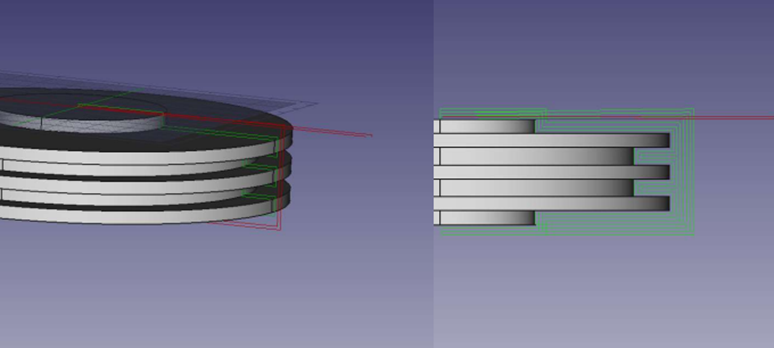
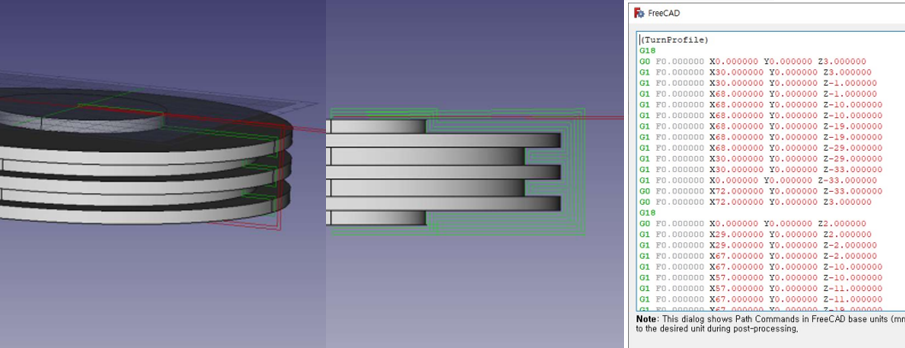
Update image

diff --git a/_posts/2024-03-07-free-cad-contribution.md b/_posts/2024-03-07-free-cad-contribution.md
@@ -45,7 +45,7 @@ FreeCAD는 CAM 기능을 제공한다. 즉, CNC 머신의 작업경로 설정을
   3. Addon에서 추가된 작업(Turn Face) 설정
   4. 작업 실행 - 실제 에러 발생 시점
   5. Path 및 Face 생성 완료
-  6. G Code 조회
+  6. G code 조회
 
 또한 (1) 해당 Addon 내부의 로직 결함, (2) 프로그램과 Addon 사이 데이터를 주고 받는 것에서 발생하는 결함, 두 경우를 중심으로 접근했다.
 
@@ -64,8 +64,8 @@ FreeCAD는 CAM 기능을 제공한다. 즉, CNC 머신의 작업경로 설정을
 에러 발생에 대한 이전 상황을 추적하려는 방식에서, 단순한 코드 대조를 통해 훨씬 쉽게 에러를 수정할 수 있었다. 물론 상위 코드 추적은 이에 대한 확신을 얻기 위한 과정으로 큰 도움이 되었다.
 
 ![path](/img/posts/2024-03-07-free-cad-contribution/path.png)
-![gcode](/img/posts/2024-03-07-free-cad-contribution/gcode.png)
-(생성된 path와 G Code)
+
+(생성된 path와 G code)
 
 ## PR
 
